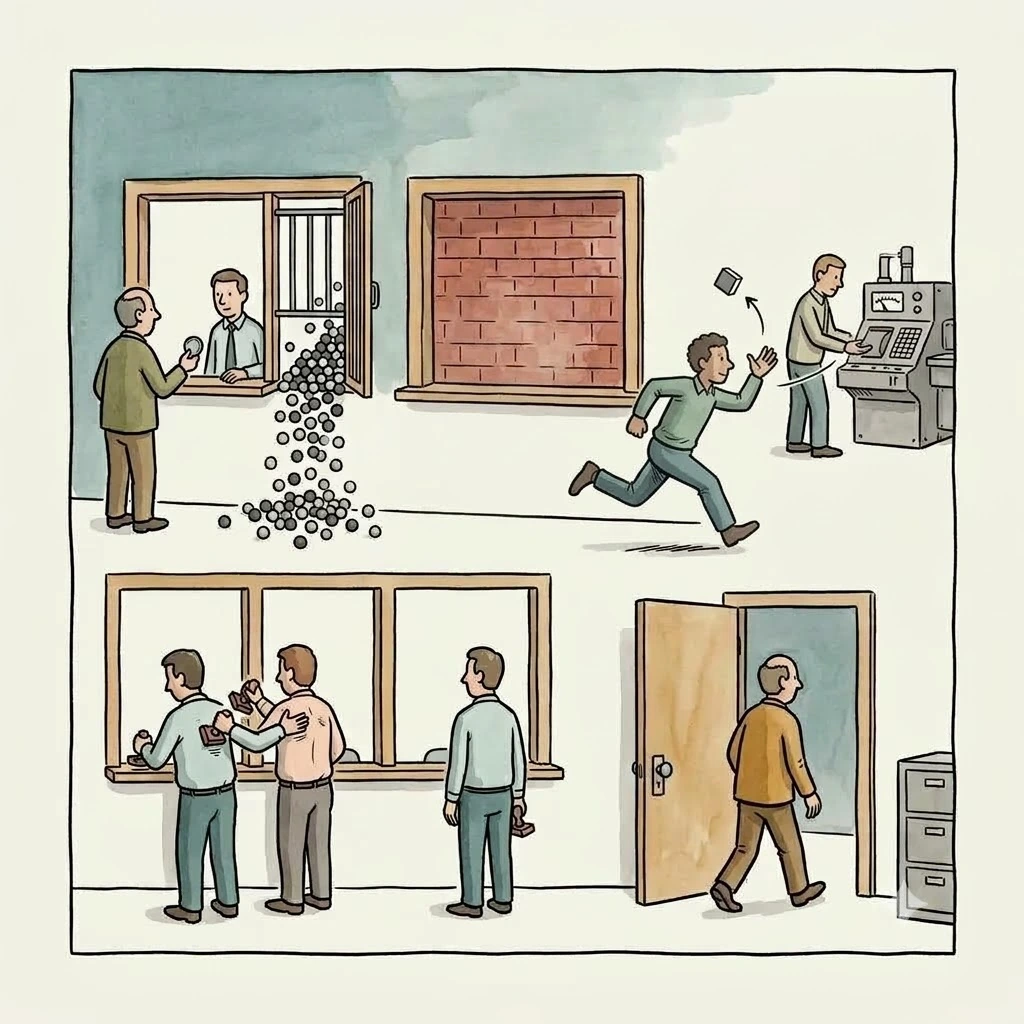
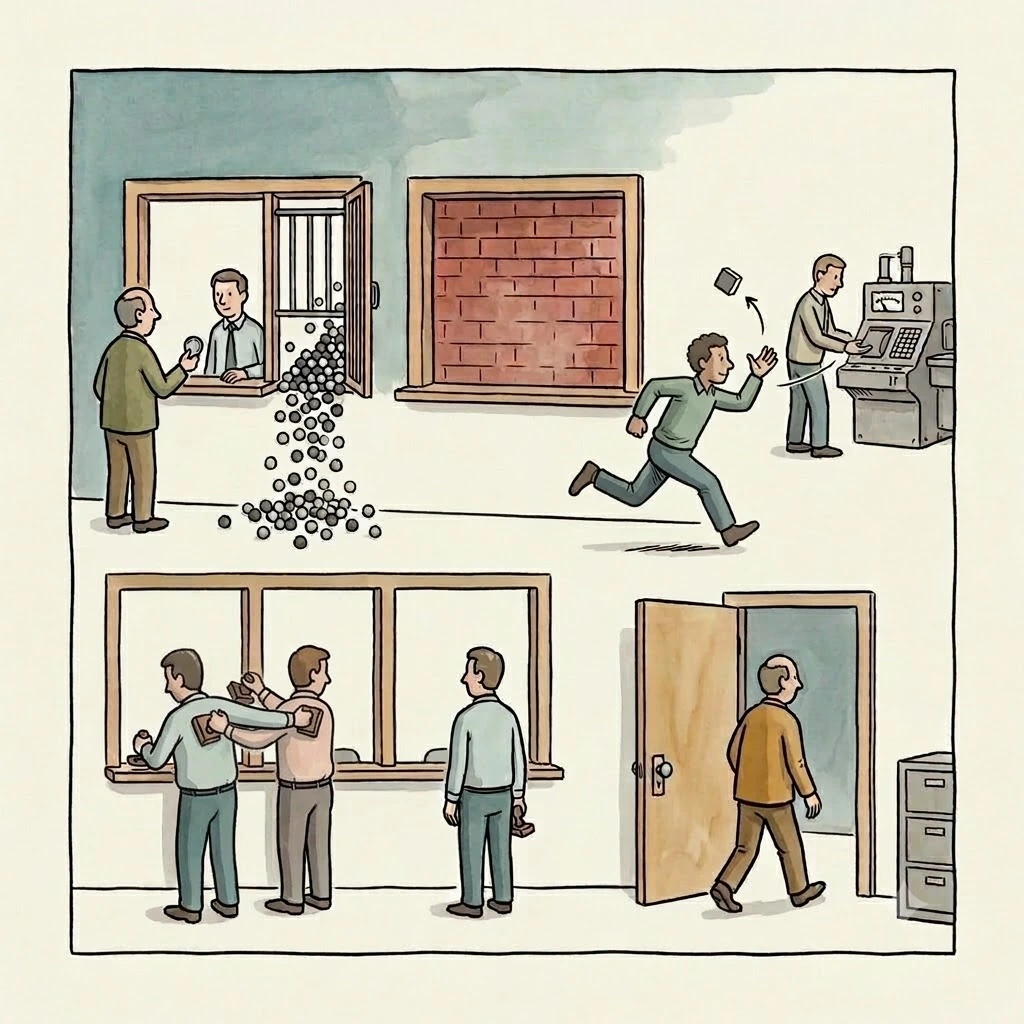
해부 A5 — s16p01 도장 찍는 둘: 연파랑 셔츠의 손 셋(팔 없는 주먹) → 각자 두 팔로 서로의 등에 도장(RTK 이량체 교차 자가인산화 그대로)
제미나이 1라운드 — 위층 창구 셋·주자·기계·문·캐비닛 그대로(위 절반 나란히 대조). 손 넷 = 두 사람 × 둘 확인(확대).

Claude-Session: https://claude.ai/code/session_01WoYBm6rvmofApXiAiUhif2

diff --git a/tools/vision/anatomy_0928.md b/tools/vision/anatomy_0928.md
@@ -14,7 +14,7 @@
 | s04p03 | 문어 팔 **아홉** | 문어만 배관을 쥔다(폐쇄순환) — 개수는 논지 밖이나 「문어 = 8」은 누구나 앎 | ✔ 손 보정: 다른 팔 뒤에서 나온 오른쪽 아래 팔을 지움 — 8918061 |
 | s04p04 | 노래기 꼬리 끝에 더듬이 같은 가지 둘 · 지네에 더듬이 없음 | 이 판이 **더듬이 개수**로 갈래를 가르는 판(갑각 넷 · 곤충 둘 · 협각 없음) — 다지류도 한 쌍 | ✔ 제미나이 1라운드 · 7·8행 글(독 방울은 그림에 없어 「갈고리 독발톱」으로) |
 | s26p01 | 레일에 매달린 작은 인물 여럿이 팔 셋·넷(머리 뒤에서 나온 팔로 매달리고 두 손은 구슬), 셋은 **정수리에서 나온 고리**로 매달림 | 6행 「구슬을 놓아 떨어뜨림」 인물들 | 제미나이(한 팔로 매달리고 한 팔로 구슬) — 인물 수가 많아 판째 다시 그리기 쪽일 수 있음 |
-| s16p01 | 도장 찍는 둘 중 파란 셔츠: 손 셋(창구 위 · 분홍 등 위 · 제 어깨에 도장 쥔 주먹 = 팔 없음) | 4행 둘이 서로의 등에 도장 | 제미나이: 각자 두 팔, 서로의 등에 |
+| s16p01 | 도장 찍는 둘 중 파란 셔츠: 손 셋(창구 위 · 분홍 등 위 · 제 어깨에 도장 쥔 주먹 = 팔 없음) | 4행 둘이 서로의 등에 도장 | ✔ 제미나이 1라운드 — 각자 두 팔로 서로의 등에 도장(분홍 셔츠는 왼손에 도장 하나 더 들고 있음 — 뜻 없음) |
 | s17p03c | 창틀 끼우는 인부: 한 소매에서 팔뚝 둘(창 아래 · 창 오른쪽) + 다른 팔은 V 도구 = 손 셋 | 2행 창을 맨벽에 끼움 | 제미나이 또는 손 보정 |
 | s46p02 | 오른쪽 흐린 윤곽 사람 **머리 없음**(붉은 관이 목에서 끝남) | 3·4행 「몸통」 | R2 판째 다시 그리기에 합침 |
 

diff --git a/tools/prompts/QUEUE_0928.md b/tools/prompts/QUEUE_0928.md
@@ -29,7 +29,7 @@
 | ~~A2~~ ✔ | s21p02 | 박쥐 손가락 여섯 → 다섯 | 제미나이 1라운드 |
 | ~~A3~~ ✔ | s04p03 | 문어 팔 아홉 → 여덟 | 손 보정 |
 | ~~A4~~ ✔ | s04p04 | 다지류 더듬이 한 쌍씩 · 노래기 꼬리 가지 없앰 | 제미나이 1라운드 |
-| A5 | s16p01 | 도장 둘 — 각자 두 팔 | 제미나이 |
+| ~~A5~~ ✔ | s16p01 | 도장 둘 — 각자 두 팔 | 제미나이 1라운드 |
 | A6 | s17p03c | 인부 손 셋 → 둘 | 제미나이/손 보정 |
 | A7 | s26p01 | 매달린 인물 팔 셋·넷 · 정수리 고리 | 제미나이(어려우면 판째) |
 | A8 | ~~s25p01b~~ ✔(손 보정) · s31p02 · s01p04 · s04p05 | 다리 셋 · 손 없는 소매 · 갑각류 다리 수 | 제미나이(작음) |
